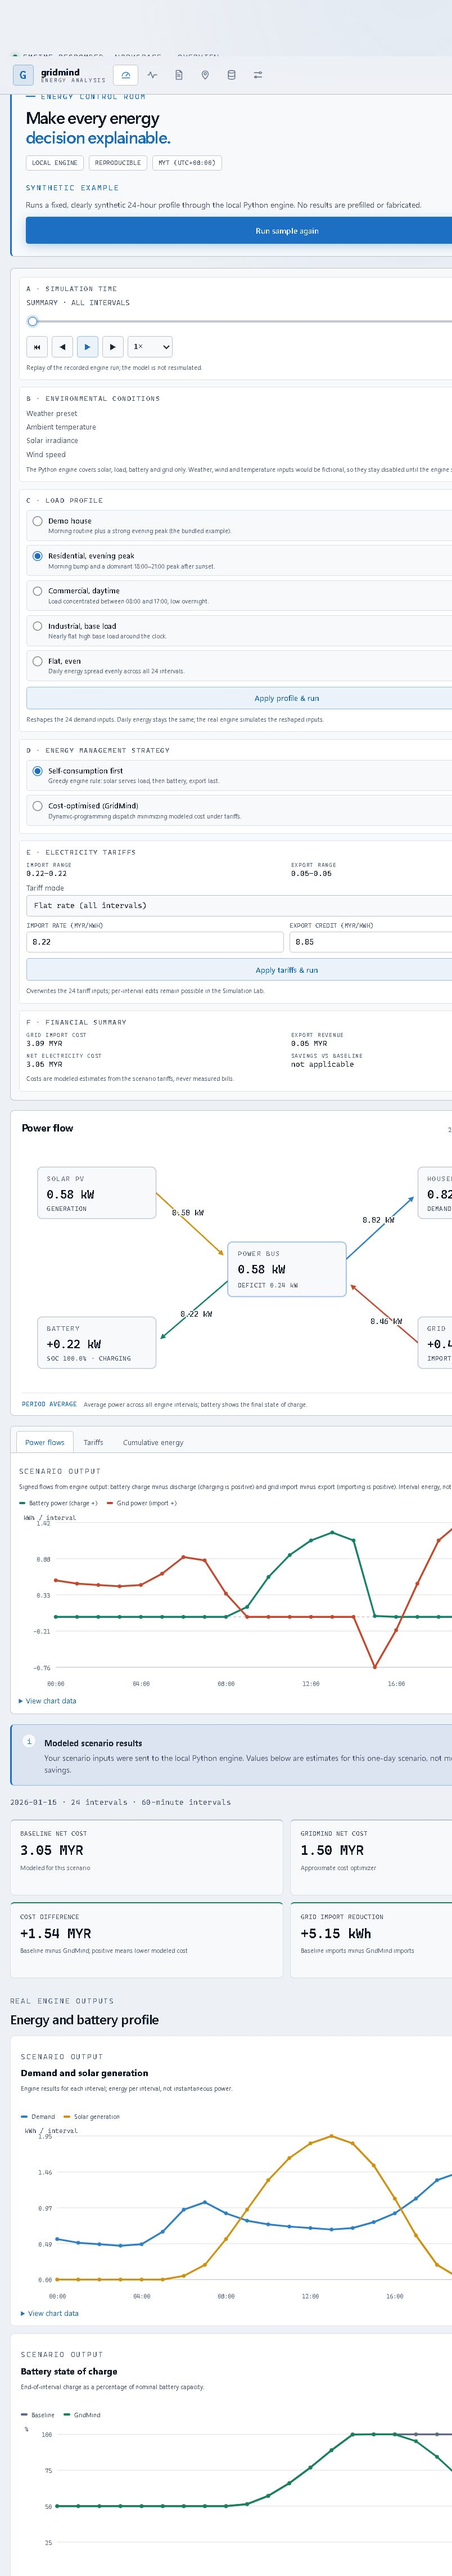
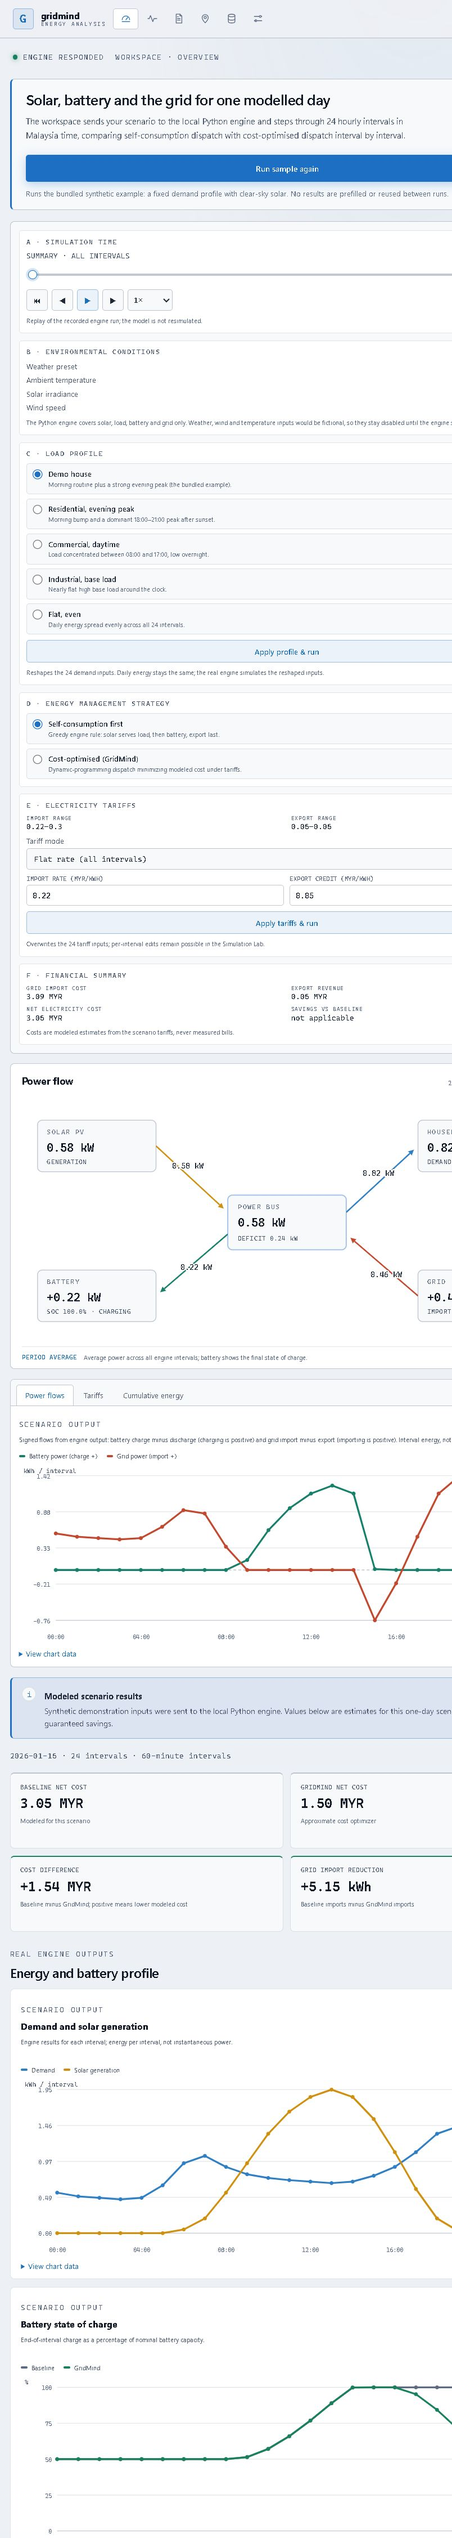
fix(ui): replace marketing hero with a sober workspace header
De-slop pass on the Phase 1 overview: drop the chip row, the eyebrow
ornament and the two-tone headline; state what the page actually does
(one modelled day, interval-by-interval comparison) and put the run
control first. Sharpen the Overview nav description.

diff --git a/frontend/src/renderer/src/styles.css b/frontend/src/renderer/src/styles.css
@@ -143,18 +143,13 @@ button:focus-visible, input:focus-visible, a:focus-visible, summary:focus-visibl
 .page-content { max-width: 1460px; min-height: calc(100vh - 96px); margin: 0 auto; padding: 18px 4px 8px; }
 .page-stack { display: grid; gap: 16px; }
 
-/* ---- Control-room hero band ----------------------------------------- */
-.hero-band { display: flex; align-items: stretch; justify-content: space-between; gap: 18px; padding: 18px 20px; border: 1px solid var(--line-strong); border-left: 3px solid var(--accent); border-radius: var(--radius-m); background: var(--panel-soft); }
-.hero-copy h1 { margin: 10px 0 12px; font: 600 clamp(24px, 2.4vw, 30px)/1.16 "Segoe UI Variable Display", "Segoe UI", sans-serif; letter-spacing: -1px; color: var(--text-strong); }
-.hero-copy h1 span { color: var(--accent-strong); }
-.hero-tags { display: flex; flex-wrap: wrap; gap: 7px; }
-.hero-tags span { padding: 5px 8px; border: 1px solid var(--line-strong); border-radius: var(--radius-s); color: var(--muted); background: var(--panel); font: 9px var(--mono); letter-spacing: .65px; }
-.hero-run { display: grid; max-width: 380px; align-content: start; gap: 9px; justify-items: start; }
-.hero-run .eyebrow { color: var(--accent-strong); }
-.hero-run p { margin: 0; color: var(--muted); font-size: 11px; line-height: 1.6; }
+/* ---- Workspace header ------------------------------------------------ */
+.hero-band { display: flex; align-items: stretch; justify-content: space-between; gap: 18px; padding: 16px 20px 15px; border: 1px solid var(--line-strong); border-left: 3px solid var(--accent); border-radius: var(--radius-m); background: var(--panel-soft); }
+.hero-copy h1 { margin: 0 0 8px; font: 600 clamp(21px, 2vw, 26px)/1.22 "Segoe UI Variable Display", "Segoe UI", sans-serif; letter-spacing: -.4px; color: var(--text-strong); }
+.hero-lede { max-width: 560px; margin: 0; color: var(--muted); font-size: 12px; line-height: 1.65; }
+.hero-run { display: grid; max-width: 380px; align-content: start; gap: 8px; justify-items: start; }
+.hero-run p { margin: 0; color: var(--faint); font-size: 10.5px; line-height: 1.6; }
 .hero-run .primary-button { justify-self: start; }
-.eyebrow-line { width: 14px; height: 1px; background: var(--accent); }
-.hero-copy .eyebrow { display: flex; align-items: center; gap: 8px; color: var(--accent-strong); }
 
 /* ---- Control room workspace (rail + main column) --------------------- */
 .workspace { display: grid; grid-template-columns: 288px minmax(0, 1fr); gap: 14px; align-items: start; }

diff --git a/frontend/src/renderer/src/pages/HomePage.tsx b/frontend/src/renderer/src/pages/HomePage.tsx
@@ -94,16 +94,18 @@ export function HomePage({
     <div className="page-stack">
       <section className="hero-band">
         <div className="hero-copy">
-          <div className="eyebrow"><span className="eyebrow-line" /> ENERGY CONTROL ROOM</div>
-          <h1>Make every energy<br /><span>decision explainable.</span></h1>
-          <div className="hero-tags"><span>LOCAL ENGINE</span><span>REPRODUCIBLE</span><span>MYT (UTC+08:00)</span></div>
+          <h1>Solar, battery and the grid for one modelled day</h1>
+          <p className="hero-lede">
+            The workspace sends your scenario to the local Python engine and steps through
+            24 hourly intervals in Malaysia time, comparing self-consumption dispatch with
+            cost-optimised dispatch interval by interval.
+          </p>
         </div>
         <div className="hero-run">
-          <span className="eyebrow">SYNTHETIC EXAMPLE</span>
-          <p>Runs a fixed, clearly synthetic 24-hour profile through the local Python engine. No results are prefilled or fabricated.</p>
           <button className="primary-button" type="button" onClick={onRunDemo} disabled={isRunning}>
             {isRunning ? <><span className="button-spinner" aria-hidden="true" /> Running engine…</> : report ? "Run sample again" : "Run sample scenario"}
           </button>
+          <p>Runs the bundled synthetic example: a fixed demand profile with clear-sky solar. No results are prefilled or reused between runs.</p>
         </div>
       </section>
       {error && <FeedbackState kind="warning" title="Scenario could not be run">{error + " You can try again; no new results were shown."}</FeedbackState>}

diff --git a/frontend/src/renderer/src/navigation.ts b/frontend/src/renderer/src/navigation.ts
@@ -1,7 +1,7 @@
 import type { NavigationItem, PageId } from "./types";
 
 export const navigationItems: NavigationItem[] = [
-  { id: "home", label: "Overview", eyebrow: "WORKSPACE", description: "Your energy workspace at a glance." },
+  { id: "home", label: "Overview", eyebrow: "WORKSPACE", description: "Results from the most recent engine run." },
   { id: "simulation", label: "Simulation lab", eyebrow: "MODEL", description: "Configure a scenario and inspect validated results." },
   { id: "reports", label: "Reports", eyebrow: "ANALYSIS", description: "Review reproducible reports from completed runs." },
   { id: "energy-map", label: "Energy map", eyebrow: "REFERENCE", description: "Open official Malaysian power station and grid maps." },

diff --git a/frontend/src/renderer/src/App.test.tsx b/frontend/src/renderer/src/App.test.tsx
@@ -106,7 +106,7 @@ describe("GridMind desktop shell", () => {
   it("shows an honest empty dashboard before a scenario runs", () => {
     render(<App />);
 
-    expect(screen.getByRole("heading", { name: /make every energy decision explainable/i })).toBeInTheDocument();
+    expect(screen.getByRole("heading", { name: /solar, battery and the grid for one modelled day/i })).toBeInTheDocument();
     expect(screen.getByRole("heading", { name: "No scenario results yet" })).toBeInTheDocument();
     expect(screen.queryByRole("heading", { name: "Energy and battery profile" })).not.toBeInTheDocument();
   });
